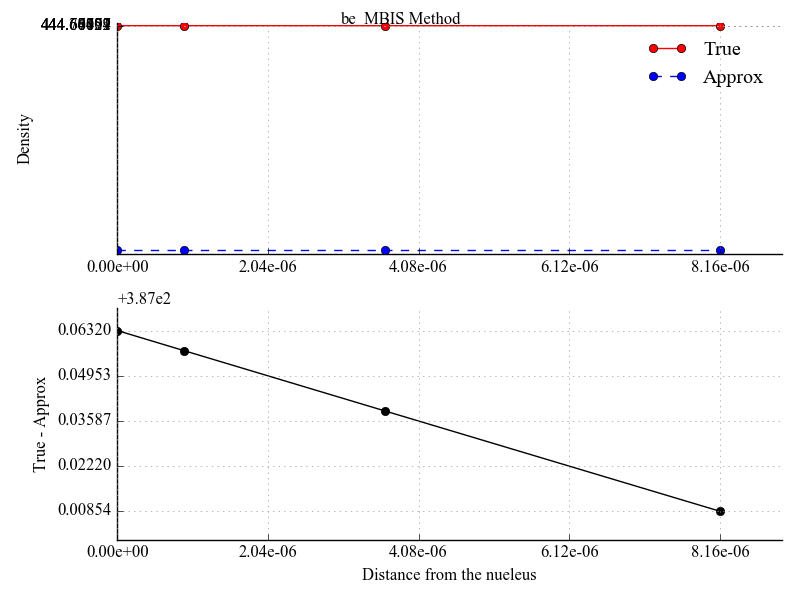
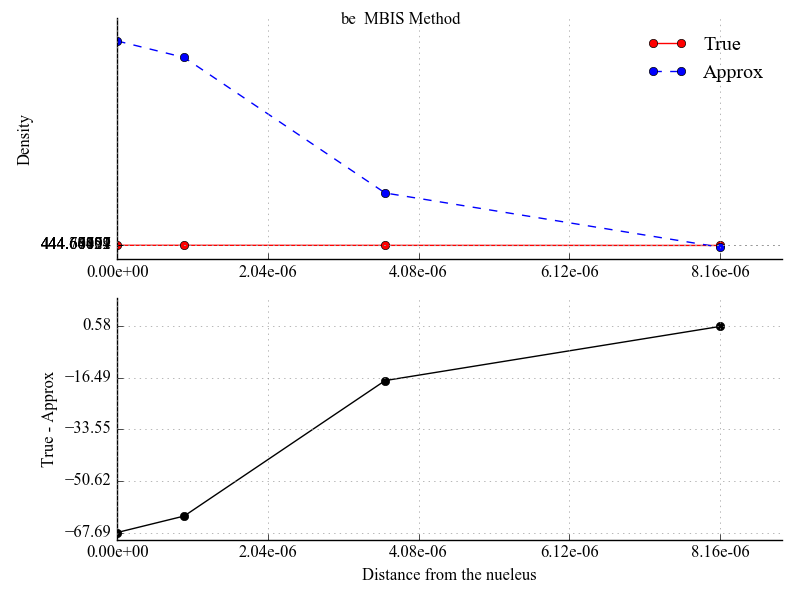
Normalized Coeffs for MBIS works now

diff --git a/fitting/fit/normalized_mbis.py b/fitting/fit/normalized_mbis.py
@@ -6,11 +6,22 @@ from scipy.integrate import simps, trapz
 
 import numpy as np
 
+def get_normalization_constant(exponent):
+    return (exponent / np.pi)**(3/2)
+
+def get_normalization_constant2(exponent):
+    return (exponent / np.pi )**(1/2) * 2.
+
 def normalized_gaussian_model(coefficients, exponents, grid):
     exponential = np.exp(-exponents * np.power(grid, 2.))
-    normalization_constants = np.array([(exponents[x] / np.pi)**(1/2)  for x in range(0, len(exponents))])
+    normalization_constants = np.array([get_normalization_constant(exponents[x])  for x in range(0, len(exponents))])
     normalized_coeffs = normalization_constants * coefficients
     gaussian_density = np.dot(exponential, normalized_coeffs)
+    return gaussian_density
+
+def get_gaussian_model(coefficients, exponents, grid):
+    exponential = np.exp(-exponents * np.power(grid, 2.))
+    gaussian_density = np.dot(exponential, coefficients)
     return gaussian_density
 
 def integrate_error(coefficients, exponents, electron_density, grid):
@@ -20,7 +31,7 @@ def integrate_error(coefficients, exponents, electron_density, grid):
 
 def integrate_normalized_model(coefficients, exponents, electron_density, grid):
     gaussian_model = normalized_gaussian_model(coefficients, exponents, grid)
-    return np.trapz(y=np.power(np.ravel(grid), 2.) * gaussian_model , x=np.ravel(grid))
+    return np.trapz(y=np.power(np.ravel(grid), 2.) * 4 * np.pi * gaussian_model , x=np.ravel(grid))
 
 def KL_objective_function(coefficients, exponents, true_density, grid):
     gaussian_density = normalized_gaussian_model(coefficients, exponents, grid)
@@ -47,9 +58,11 @@ def update_coefficients(initial_coeffs, constant_exponents, electron_density, gr
 
     new_coefficients = np.empty(len(initial_coeffs))
     for i in range(0, len(initial_coeffs)):
-        factor = initial_coeffs[i] * (constant_exponents[i] / np.pi)**(1/2) * 2.
-        integrand = ratio * np.ravel(np.ma.asarray(np.exp(- constant_exponents[i] * np.power(grid, 2.))))
+        factor = initial_coeffs[i] * get_normalization_constant(constant_exponents[i])
+        integrand = ratio * np.ravel(np.ma.asarray(np.exp(- constant_exponents[i] * np.power(grid, 2.)))) *\
+                    np.ravel(np.power(grid, 2.))
         new_coefficients[i] = factor * np.trapz(y=integrand, x=np.ravel(grid))
+    print(np.sum(new_coefficients))
     return new_coefficients
 
 def update_exponents(constant_coeffs, initial_exponents, electron_density, grid, masked_value=1e-6):
@@ -62,10 +75,10 @@ def update_exponents(constant_coeffs, initial_exponents, electron_density, grid,
     ratio = masked_electron_density / masked_gaussian_density
     new_exponents = np.empty(len(initial_exponents))
     for i in range(0, len(initial_exponents)):
-        factor = 2. * ((initial_exponents[i]) / np.sqrt(np.pi))**(3/2)
+        factor = 2. * get_normalization_constant(initial_exponents[i])
         integrand = ratio * np.ravel(np.ma.asarray(np.exp(- initial_exponents[i] * np.power(grid, 2.)))) *\
                     np.ravel(np.power(grid, 2.))
-        new_exponents[i] = 3. / ( factor * np.trapz(y=integrand, x=np.ravel(grid)) )
+        new_exponents[i] = 1. / ( factor * np.trapz(y=integrand, x=np.ravel(grid)) )
     return new_exponents
 
 def fixed_iteration_MBIS_method(coefficients, exponents,  electron_density, grid, num_of_iterations=800,masked_value=1e-6, iprint=False):
@@ -79,19 +92,24 @@ def fixed_iteration_MBIS_method(coefficients, exponents,  electron_density, grid
         temp_coefficients = new_coefficients.copy()
         new_coefficients = update_coefficients(old_coefficients, exponents,electron_density,
                                             grid, masked_value=masked_value)
-        exponents = update_exponents(old_coefficients, exponents, electron_density, grid)
+        #exponents = update_exponents(old_coefficients, exponents, electron_density, grid)
         old_coefficients = temp_coefficients.copy()
 
         approx_model = normalized_gaussian_model(new_coefficients, exponents, grid)
         inte_error = integrate_error(new_coefficients, exponents, electron_density, grid)
         integration_model = integrate_normalized_model(new_coefficients, exponents, electron_density, grid)
         obj_func_error = KL_objective_function(new_coefficients, exponents, electron_density, grid)
-
+        if x % 1000 == 0.:
+            print("Coeffs")
+            print(new_coefficients)
+            print("Exps")
+            print(exponents)
         if iprint:
             print(counter, integration_model,
                inte_error,
                obj_func_error)
         counter += 1
+    return (coeffs, exps)
 
 if __name__ == "__main__":
     ELEMENT_NAME = "be"
@@ -117,9 +135,13 @@ if __name__ == "__main__":
                    6.71088640e+06,   1.34217728e+07,   2.68435456e+07,   5.36870912e+07,
                    1.07374182e+08,   2.14748365e+08,   4.29496730e+08,   8.58993459e+08,
                    1.71798692e+09,   3.43597384e+09])
-
+    exps = be.UGBS_s_exponents
     coeffs = fitting_obj.optimize_using_nnls(be.create_cofactor_matrix(exps))
     coeffs[coeffs == 0.] = 1e-12
 
+
+    #print("paams", parameters)
+    #model = be.create_model(np.append(parameters,exps), len(parameters))
+    #print(be.integrate_model_using_trapz(model))
     fixed_iteration_MBIS_method(coeffs, exps, be.electron_density, be.grid, num_of_iterations=10000000,iprint=True)
 

diff --git a/fitting/fit/MBIS.py b/fitting/fit/MBIS.py
@@ -12,9 +12,6 @@ def update_coefficients(initial_coeffs, constant_exponents, electron_density, gr
     assert len(initial_coeffs) == len(constant_exponents)
     assert len(np.ravel(electron_density)) == len(np.ravel(grid))
 
-    def get_normalization_constants(coefficient, exponents):
-        [(constant_exponents[x] / np.pi)**(3/2) for x in range(0, len(constant_exponents))]
-
     exponential = np.exp(-constant_exponents * np.power(grid, 2.))
     assert exponential.shape[1] == len(constant_exponents)
     assert exponential.shape[0] == len(np.ravel(grid))
@@ -29,7 +26,7 @@ def update_coefficients(initial_coeffs, constant_exponents, electron_density, gr
 
     new_coefficients = np.empty(len(initial_coeffs))
     for i in range(0, len(initial_coeffs)):
-        factor = initial_coeffs[i] * (constant_exponents[i] / np.pi)**(3/2) * 2.
+        factor = initial_coeffs[i] * (constant_exponents[i] / np.pi)**(1/2) * 2.
         integrand = ratio * np.ravel(np.ma.asarray(np.exp(- constant_exponents[i] * np.power(grid, 2.))))
         new_coefficients[i] = factor * np.trapz(y=integrand, x=np.ravel(grid))
     return new_coefficients
@@ -67,10 +64,10 @@ def update_exponents(constant_coeffs, initial_exponents, electron_density, grid,
     ratio = masked_electron_density / masked_gaussian_density
     new_exponents = np.empty(len(initial_exponents))
     for i in range(0, len(initial_exponents)):
-        factor = 12. * np.sqrt(initial_exponents[i]) / np.sqrt(np.pi)
+        factor = 4. * np.sqrt(initial_exponents[i]) / np.sqrt(np.pi)
         integrand = ratio * np.ravel(np.ma.asarray(np.exp(- initial_exponents[i] * np.power(grid, 2.)))) *\
                     np.ravel(np.power(grid, 2.))
-        new_exponents[i] = 3. / ( factor * np.trapz(y=integrand, x=np.ravel(grid)) )
+        new_exponents[i] = 1. / ( factor * np.trapz(y=integrand, x=np.ravel(grid)) )
     return new_exponents
 
 
@@ -304,7 +301,7 @@ if __name__ == "__main__":
     coeffs[coeffs == 0.] = 1E-6
     exps[exps == 0.] = 1E-6
 
-    parameters, error_array = fixed_iteration_MBIS_method(coeffs, exps, fitting_obj, num_of_iterations=5000, iprint=False)
+    parameters, error_array = fixed_iteration_MBIS_method(coeffs, exps, fitting_obj, num_of_iterations=5000, iprint=True)
     print("Final Coeffs")
     print(parameters[:len(parameters)//2])
     print("Final Exps")
